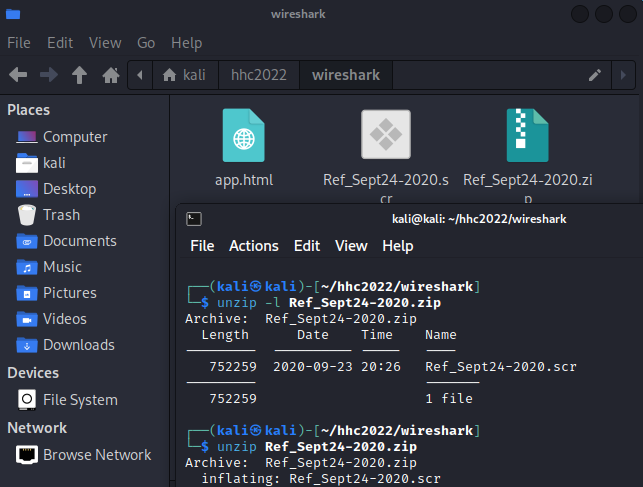
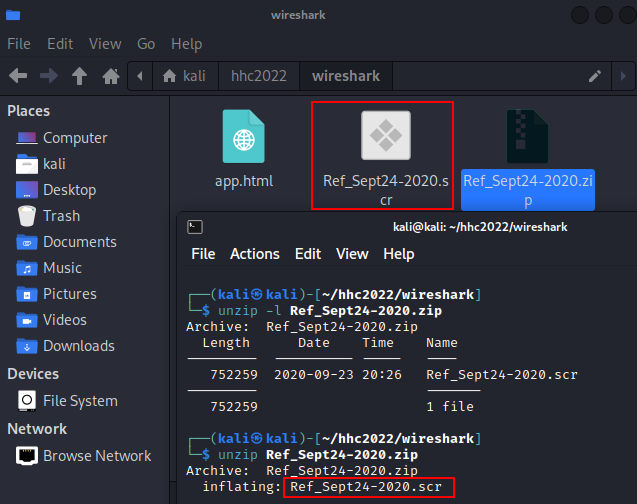
adding stuff for wireshark

diff --git a/docs/SANS-HHC-2022/site/TolkienRing/WiresharkPhishing/index.html b/docs/SANS-HHC-2022/site/TolkienRing/WiresharkPhishing/index.html
@@ -1072,8 +1072,57 @@ of questions.</p>
  </tr>
  <tr>
   <td>
-  <p class=MyNormalStyle>The app.php access was successful (200 OK) and that
-  file downloads the Ref_Sept24-2020.zip. So, yes, the host is infected.</p>
+  <p class=MyNormalStyle>
+  We know the file Ref_Sept24-2020.zip is being saved via app.php.
+  So first we take a look at the zip file.
+  We rename the app.php to app.html because its all javascript and opened that ins a browser and that downloads the Ref_Sept24-2020.zip.
+  </p>
+  </td>
+ </tr>
+  <tr>
+  <td>
+    <img border=0 src="../../images/blog_images/wireshark_0.png">
+  </p>
+  </td>
+ </tr>
+ <tr>
+  <td>
+  <p class=MyNormalStyle>
+  We unzip the file and see a file named "Ref_Sept24-2020.scr" in it.
+  </p>
+  </td>
+ </tr>
+<tr>
+  <td>
+    <img border=0 src="../../images/blog_images/wireshark_1.png">
+  </p>
+  </td>
+ </tr>
+ <tr>
+  <td>
+  <p class=MyNormalStyle>
+  Calculate the MD5 hash of the file..
+  </p>
+  </td>
+ </tr>
+  <tr>
+  <td>
+    <img border=0 src="../../images/blog_images/wireshark_2.png">
+  </p>
+  </td>
+ </tr>
+ <tr>
+  <td>
+  <p class=MyNormalStyle>
+  Submitting that MD5 hash to the Virustotal shows 45 security vendors and 4 sandboxes flagged this file as malicious.
+  So, based on this, the host was indeed infected.
+  </p>
+  </td>
+ </tr>
+  <tr>
+  <td>
+    <img border=0 src="../../images/blog_images/wireshark_3.png">
+  </p>
   </td>
  </tr>
 </table>

diff --git a/docs/SANS-HHC-2022/docs/TolkienRing/WiresharkPhishing.md b/docs/SANS-HHC-2022/docs/TolkienRing/WiresharkPhishing.md
@@ -302,8 +302,57 @@ of questions.</p>
  </tr>
  <tr>
   <td>
-  <p class=MyNormalStyle>The app.php access was successful (200 OK) and that
-  file downloads the Ref_Sept24-2020.zip. So, yes, the host is infected.</p>
+  <p class=MyNormalStyle>
+  We know the file Ref_Sept24-2020.zip is being saved via app.php.
+  So first we take a look at the zip file.<br>
+  We rename the app.php to app.html because its all javascript and simply open it in a browser and that downloads the Ref_Sept24-2020.zip.
+  </p>
+  </td>
+ </tr>
+  <tr>
+  <td>
+    <img border=0 src="../../images/blog_images/wireshark_0.png">
+  </p>
+  </td>
+ </tr>
+ <tr>
+  <td>
+  <p class=MyNormalStyle>
+  We unzip the file and see a file named "Ref_Sept24-2020.scr" in it.
+  </p>
+  </td>
+ </tr>
+<tr>
+  <td>
+    <img border=0 src="../../images/blog_images/wireshark_1.png">
+  </p>
+  </td>
+ </tr>
+ <tr>
+  <td>
+  <p class=MyNormalStyle>
+  Calculate the MD5 hash of the file..
+  </p>
+  </td>
+ </tr>
+  <tr>
+  <td>
+    <img border=0 src="../../images/blog_images/wireshark_2.png">
+  </p>
+  </td>
+ </tr>
+ <tr>
+  <td>
+  <p class=MyNormalStyle>
+  Submitting that MD5 hash to the Virustotal shows 45 security vendors and 4 sandboxes flagged this file as malicious.
+  <br>Therefore, based on this, the host was indeed infected.
+  </p>
+  </td>
+ </tr>
+  <tr>
+  <td>
+    <img border=0 src="../../images/blog_images/wireshark_3.png">
+  </p>
   </td>
  </tr>
 </table>
